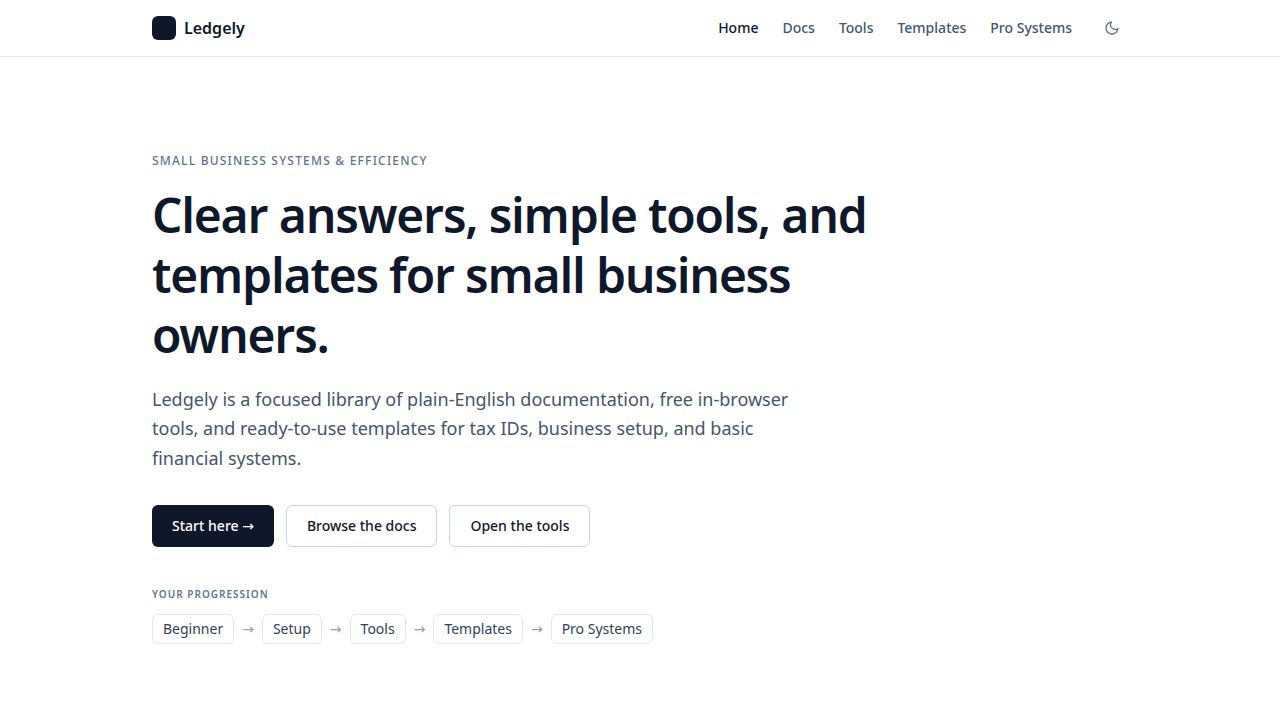
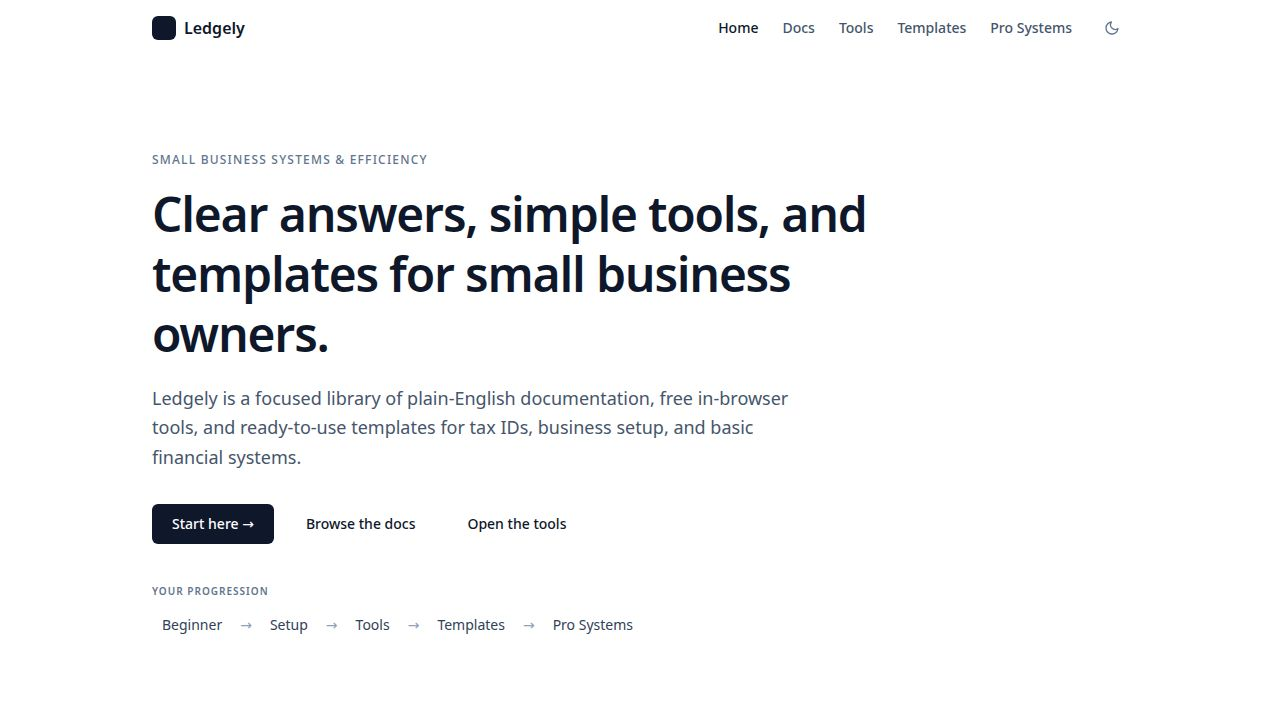
Improve website performance by optimizing CSS loading and dark mode implementation
Implement non-render-blocking CSS loading, a dark mode script for preventing hydration mismatches, and cache headers for static assets.

Replit-Commit-Author: Agent
Replit-Commit-Session-Id: 0cca8e4a-6347-453d-b3c4-b88546d11a7a
Replit-Commit-Checkpoint-Type: full_checkpoint
Replit-Commit-Event-Id: 30ba1c19-9c99-4326-8473-d39b1df02dbd
Replit-Commit-Screenshot-Url: https://storage.googleapis.com/screenshot-production-us-central1/47503afe-a58c-4cdf-a6ed-10efa0d492ea/0cca8e4a-6347-453d-b3c4-b88546d11a7a/Mh2EUDK
Replit-Helium-Checkpoint-Created: true

diff --git a/artifacts/docs/vite.config.ts b/artifacts/docs/vite.config.ts
@@ -26,11 +26,12 @@ if (!basePath) {
   );
 }
 
-// Moves the Vite-injected CSS <link> to appear BEFORE all script tags and
-// adds an early <link rel="preload" as="style"> so the browser fetches CSS
-// in parallel with the HTML rather than waiting for JS to be parsed first.
+// Makes the Vite-injected CSS non-render-blocking using the rel=preload+onload
+// trick. The browser fetches CSS at high priority without blocking paint, then
+// applies it as soon as it arrives. A minimal critical CSS in index.html keeps
+// the page usable during the load. A <noscript> fallback covers no-JS users.
 const cssPriorityPlugin = {
-  name: 'css-first',
+  name: 'css-async',
   apply: 'build' as const,
   transformIndexHtml: {
     order: 'post' as const,
@@ -39,15 +40,14 @@ const cssPriorityPlugin = {
       const m = html.match(cssLinkRe);
       if (!m) return html;
       const cssHref = m[1];
-      const cssStylesheet = `<link rel="stylesheet" crossorigin href="${cssHref}">`;
-      const cssPreload    = `<link rel="preload" as="style" href="${cssHref}">`;
-      // Remove from current position (after module scripts)
+      // Non-render-blocking: preload at high priority, apply via onload
+      const cssAsync = `<link rel="preload" as="style" fetchpriority="high" href="${cssHref}" onload="this.onload=null;this.rel='stylesheet'"><noscript><link rel="stylesheet" href="${cssHref}"></noscript>`;
+      // Remove the render-blocking <link rel="stylesheet"> Vite injected
       html = html.replace(m[0], '');
-      // Insert BEFORE our first inline <script> so the preload scanner finds
-      // it immediately at the top of <head>, well before any JS tags.
+      // Insert the async version as early as possible in <head>
       html = html.replace(
         '<script>if(location.hostname',
-        `${cssPreload}\n    ${cssStylesheet}\n    <script>if(location.hostname`,
+        `${cssAsync}\n    <script>if(location.hostname`,
       );
       return html;
     },

diff --git a/artifacts/docs/index.html b/artifacts/docs/index.html
@@ -9,6 +9,26 @@
     <!--SEO_HEAD-->
     <script>if(location.hostname.endsWith('.replit.app')){location.replace('https://ledgely.online'+location.pathname+location.search+location.hash);}</script>
 
+    <!-- Dark mode: apply class BEFORE React hydrates to prevent mismatch (#418) -->
+    <script>
+      (function(){
+        var s = localStorage.getItem('ledgely-dark');
+        var prefersDark = window.matchMedia && window.matchMedia('(prefers-color-scheme: dark)').matches;
+        if (s === '1' || (s === null && prefersDark)) {
+          document.documentElement.classList.add('dark');
+        }
+      })();
+    </script>
+
+    <!-- Critical inline CSS: prevents FOUC while full stylesheet loads async -->
+    <style>
+      *,::after,::before{box-sizing:border-box;border-width:0;border-style:solid}
+      html{background:#fff;line-height:1.5;-webkit-text-size-adjust:100%;scroll-behavior:smooth}
+      html.dark{background:#020617;color:#f1f5f9}
+      body{margin:0;font-family:Inter,system-ui,-apple-system,BlinkMacSystemFont,sans-serif;color:#0f172a}
+      #root{min-height:100vh}
+    </style>
+
     <!-- DNS preconnects -->
     <link rel="preconnect" href="https://fonts.googleapis.com">
     <link rel="preconnect" href="https://fonts.gstatic.com" crossorigin>

diff --git a/artifacts/docs/src/hooks/useDarkMode.ts b/artifacts/docs/src/hooks/useDarkMode.ts
@@ -3,9 +3,11 @@ import { useState, useEffect } from "react";
 export function useDarkMode() {
   const [dark, setDark] = useState<boolean>(() => {
     if (typeof window === "undefined") return false;
-    const saved = localStorage.getItem("ledgely-dark");
-    if (saved !== null) return saved === "1";
-    return window.matchMedia("(prefers-color-scheme: dark)").matches;
+    // Read from the <html> classList — the inline script in index.html
+    // already applied the correct class before React hydrates, so this
+    // matches the DOM state and eliminates the hydration mismatch (#418).
+    // Use optional chaining: SSR polyfills may not include classList.
+    return document.documentElement.classList?.contains("dark") ?? false;
   });
 
   useEffect(() => {

diff --git a/artifacts/docs/src/components/Layout.tsx b/artifacts/docs/src/components/Layout.tsx
@@ -54,6 +54,7 @@ export function Layout({ children }: { children: ReactNode }) {
             {navLink("/templates", "Templates")}
             {navLink("/pro", "Pro Systems")}
             <button
+              suppressHydrationWarning
               onClick={() => setDark(!dark)}
               aria-label={dark ? "Switch to light mode" : "Switch to dark mode"}
               className="w-8 h-8 flex items-center justify-center rounded-lg text-slate-500 hover:text-slate-900 hover:bg-slate-100 dark:text-slate-400 dark:hover:text-slate-100 dark:hover:bg-slate-800 transition-colors"
